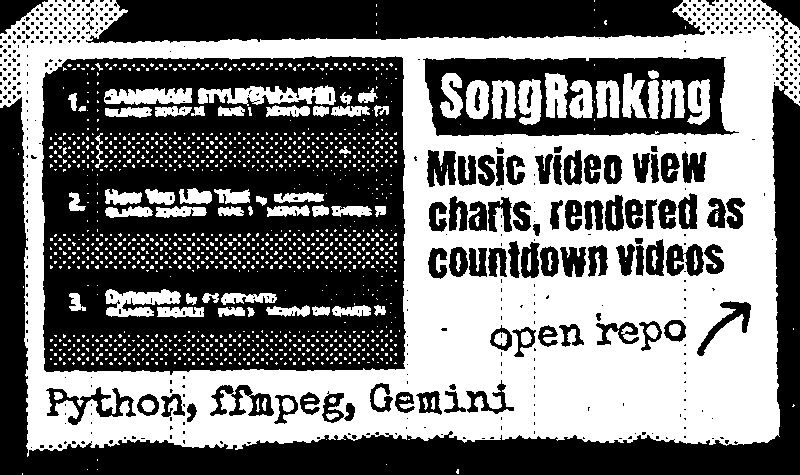
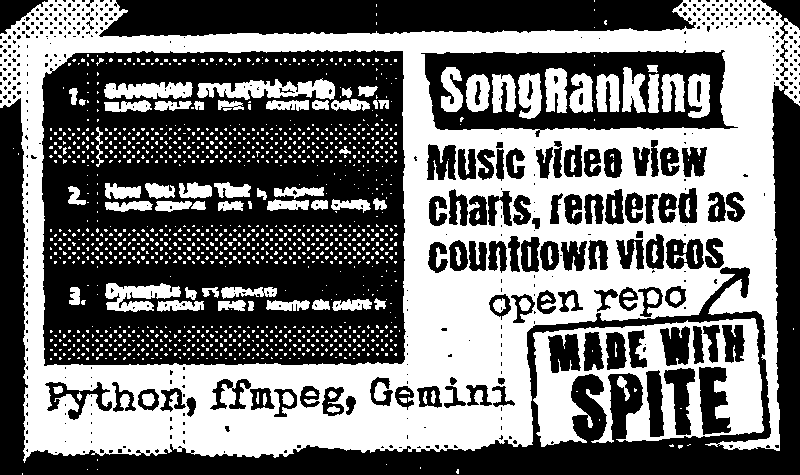
Keep two project cards and stamp them Made with SPITE: drop the FiTTTT and Beautiful Nail cards, their sources and README row, and add a shared rubber stamp to the Weekrow and SongRanking cards

diff --git a/generator/pages/card.js b/generator/pages/card.js
@@ -1,4 +1,4 @@
-// Shared setup for the four project cards: the sheet, the name strip, the two pieces of tape,
+// Shared setup for the project cards: the sheet, the name strip, the two pieces of tape, the "Made with SPITE" stamp,
 // and an SVG filter that turns a screenshot into high-contrast gray before the photocopy.
 (() => {
   const $ = (id) => document.getElementById(id);
@@ -38,6 +38,18 @@
       `<div id="open"><span>open repo</span><svg width="62" height="62" viewBox="0 0 130 130" fill="none" stroke="#000" stroke-width="14" stroke-linecap="round" stroke-linejoin="round"><path d="M10 112 C 30 70, 70 40, 108 22"/><path d="M62 14 L 112 18 L 104 66"/></svg></div>`);
   }
 
+  // Presses the "Made with SPITE" rubber stamp on the sheet. `rot` is the turn in degrees, `right` and `bottom` place it
+  // against the sheet's lower right corner, and `seed` picks the pattern of worn ink.
+  function addStamp({ rot, right, bottom, seed }) {
+    const el = document.createElement('div');
+    el.id = 'made';
+    el.className = 'stamp';
+    el.style.cssText = `right:${right}px;bottom:${bottom}px;transform:rotate(${rot}deg)`;
+    el.innerHTML = '<span>MADE WITH</span><b>SPITE</b>';
+    $('sheet').appendChild(el);
+    zine.wear(el, { seed, patches: 40, scratches: 0, size: 2.5 });
+  }
+
   // Shrinks the name until it fits the text column, so a long project name never spills out.
   function fitName() {
     const name = $('name');
@@ -46,7 +58,7 @@
     while (name.offsetWidth > room && size > 48) name.style.fontSize = `${--size}px`;
   }
 
-  async function start({ seed, tilt, shotTilt, setup }) {
+  async function start({ seed, tilt, shotTilt, stamp, setup }) {
     if (tilt !== undefined) $('sheet').style.setProperty('--tilt', `${tilt}deg`);
     if (shotTilt !== undefined) document.querySelector('.shot').style.setProperty('--shot-tilt', `${shotTilt}deg`);
     addOpenRepo();
@@ -58,6 +70,7 @@
       zine.tape($('tapeA'), { seed: seed + 2 });
       zine.tape($('tapeB'), { seed: seed + 3 });
       if (setup) setup();
+      addStamp({ seed: seed + 4, ...stamp });
     });
   }
 

diff --git a/generator/pages/card.css b/generator/pages/card.css
@@ -1,9 +1,9 @@
 /* Project cards: an 800x475 cut-out sheet taped onto black. The screenshot is on the left, the text on the right,
-   and the tech line runs under both. All four cards share this height. */
+   and the tech line runs under both. Both cards share this height. */
 body { width: 800px; }
 #page { width: 800px; height: 475px; }
 
-#sheet { position: absolute; left: 22px; top: 36px; width: 756px; height: 418px; padding: 20px 22px 0; transform: rotate(var(--tilt, -0.8deg)); }
+#sheet { position: absolute; left: 22px; top: 30px; width: 756px; height: 432px; padding: 20px 22px 0; transform: rotate(var(--tilt, -0.8deg)); }
 .main { display: flex; gap: 24px; align-items: flex-start; }
 
 .shot { position: relative; flex: none; width: 360px; height: 312px; overflow: hidden; background: #fff; border: 5px solid #000; transform: rotate(var(--shot-tilt, 0.5deg)); }
@@ -20,3 +20,8 @@ body { width: 800px; }
 /* Link cue: a hand-drawn arrow, the same one as on the tags, and a typewriter label at the bottom right of the text column. */
 #open { position: absolute; right: 0; bottom: 0; display: flex; align-items: center; gap: 8px; transform: rotate(-2deg); font-size: 40px; line-height: 1; white-space: nowrap; -webkit-text-stroke: 1px #000; }
 #open svg { flex: none; overflow: visible; }
+
+/* Rubber stamp "Made with SPITE" at the lower right of the sheet; each card turns and places it a little differently. */
+#made { position: absolute; z-index: 3; padding: 7px 14px 6px; border-width: 7px; border-radius: 8px; font-family: "Anton", sans-serif; font-weight: normal; line-height: 1; text-align: center; -webkit-text-stroke: 1.6px #000; }
+#made span { display: block; font-size: 41px; line-height: 33px; letter-spacing: 3px; margin-right: -3px; }
+#made b { display: block; margin-top: 11px; font-size: 74px; line-height: 58px; font-weight: normal; letter-spacing: 3px; margin-right: -3px; }

diff --git a/generator/pages/card-weekrow.html b/generator/pages/card-weekrow.html
@@ -7,12 +7,13 @@
 <link rel="stylesheet" href="card.css">
 <style>
   /* This card is wide: the name and caption sit in a row on top, and the ring row of the screenshot runs under them across the sheet. */
-  .main { display: block; position: relative; height: 322px; }
+  .main { display: block; position: relative; height: 255px; }
   .side { position: static; height: 86px; display: flex; align-items: flex-start; gap: 14px; }
   #name { margin: 0 0 0 -10px; flex: none; }
   #caption { margin-top: 0; }
-  .shot { position: absolute; left: 0; top: 90px; width: 710px; height: 228px; }
-  #open { right: 22px; bottom: 8px; }
+  .shot { position: absolute; left: 0; top: 90px; width: 508px; height: 163px; }
+  #open { right: 34px; bottom: 140px; }
+  #open svg { width: 80px; height: 80px; }
   #open span { display: none; }
   #tech { margin-top: 6px; }
   #title { position: absolute; left: 628px; top: 42px; z-index: 2; font-family: "Anton", sans-serif; font-size: 40px; line-height: 1; letter-spacing: 2px; padding: 6px 10px 0 12px; border-width: 6px; background: #fff; transform: rotate(-4deg); }
@@ -41,10 +42,11 @@
   card.start({
     seed: 421,
     tilt: -0.9,
+    stamp: { rot: 2.5, right: 6, bottom: 12 },
     setup: () => {
       const img = document.getElementById('img');
       // The crop keeps the three rings (HIST 205, BIO 110, MATH 221) and drops the week header and the This week row.
-      card.crop(img, { sx: 32, sy: 186, sw: 400, fullWidth: 1280, boxWidth: 700 });
+      card.crop(img, { sx: 32, sy: 186, sw: 400, fullWidth: 1280, boxWidth: 498 });
       document.querySelector('.shot').setAttribute('data-soft', '');
       document.getElementById('sheet').appendChild(document.getElementById('open'));
     },

diff --git a/generator/pages/card-songranking.html b/generator/pages/card-songranking.html
@@ -7,6 +7,7 @@
 <link rel="stylesheet" href="card.css">
 <style>
   .shot { background: #5c5c5c; }
+  #open { bottom: 28px; }
   .bar { position: absolute; left: 0; width: 350px; height: 92px; overflow: hidden; }
   .bar img { filter: url(#bars); }
 </style>
@@ -37,6 +38,7 @@
     seed: 431,
     tilt: -0.7,
     shotTilt: 0.4,
+    stamp: { rot: -3, right: 12, bottom: 12 },
     setup: () => {
       document.querySelectorAll('.bar img').forEach((img) => card.crop(img, { sx: 0, sy: 1182, sw: 1130, fullWidth: 2560, boxWidth: 350 }));
     },

diff --git a/README.md b/README.md
@@ -13,9 +13,7 @@
 <img src="assets/projects.png" alt="Track 04, Title Track: Projects. The title track is Weekrow." width="640">
 </p>
 
-<p align="center"><a href="https://github.com/tranbao0/Simple-CanvasTasks"><img src="assets/card-weekrow.png" alt="Title track: Weekrow, your Canvas week as one to-do list. TypeScript, Preact, WXT. Opens the repo." width="320"></a><a href="https://github.com/tranbao0/SongRanking"><img src="assets/card-songranking.png" alt="SongRanking: music video view charts, rendered as countdown videos. Python, ffmpeg, Gemini. Opens the repo." width="320"></a></p>
-
-<p align="center"><a href="https://github.com/tranbao0/FiTTTT"><img src="assets/card-fitttt.png" alt="FiTTTT: built in 3 days on a borrowed Mac. SwiftUI, Firebase. An empty photo frame says: no screenshot, the Mac went home. Opens the repo." width="320"></a><a href="https://github.com/tranbao0/Beautiful-Nail"><img src="assets/card-beautiful-nail.png" alt="Beautiful Nail: salon booking, built to stop double bookings. Spring Boot, SQLite. Opens the repo." width="320"></a></p>
+<p align="center"><a href="https://github.com/tranbao0/Simple-CanvasTasks"><img src="assets/card-weekrow.png" alt="Title track: Weekrow, your Canvas week as one to-do list. TypeScript, Preact, WXT. Stamped: made with spite. Opens the repo." width="320"></a><a href="https://github.com/tranbao0/SongRanking"><img src="assets/card-songranking.png" alt="SongRanking: music video view charts, rendered as countdown videos. Python, ffmpeg, Gemini. Stamped: made with spite. Opens the repo." width="320"></a></p>
 
 <p align="center">
 <img src="assets/activity.png" alt="Track 05, Activity. 634 contributions in the last year. Top languages: TypeScript 44%, Python 23%, Java 18%, JavaScript 9%, Swift 6%. Copied 2026-10-29. Track 06, Outro: Thanks to Neverland. And to everyone who read this far. See you at the next comeback. Tracklist: 01 We code Intro, 02 Member Profile, 03 Credits, 04 Title Track, 05 Activity, 06 Outro: Thanks to Neverland. Copyright 2026 Bao Tran." width="640">
